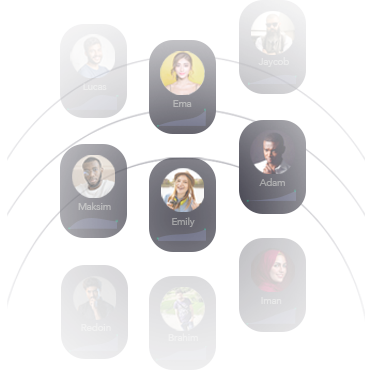
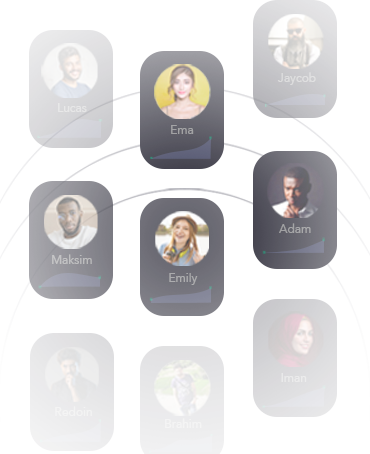
fix login ui

diff --git a/lib/presentation/views/login/login_page.dart b/lib/presentation/views/login/login_page.dart
@@ -54,7 +54,7 @@ class _LoginPageState extends State<LoginPage> {
               }
               if (state is InstagramAuthInitial) {
                 return Column(
-                  mainAxisAlignment: MainAxisAlignment.spaceBetween,
+                  mainAxisAlignment: MainAxisAlignment.spaceEvenly,
                   crossAxisAlignment: CrossAxisAlignment.center,
                   children: [
                     Padding(
@@ -62,7 +62,7 @@ class _LoginPageState extends State<LoginPage> {
                       child: Center(
                         child: Image.asset(
                           "assets/images/LoginITopImg.png",
-                          fit: BoxFit.cover,
+                          fit: BoxFit.fitWidth,
                         ),
                       ),
                     ),
@@ -70,7 +70,7 @@ class _LoginPageState extends State<LoginPage> {
                     const Padding(
                       padding: EdgeInsets.symmetric(horizontal: 20.0),
                       child: Text(
-                        "Instant Analysis of your Instagram Freind",
+                        "Instant Analysis of your Instagram Freinds",
                         style: TextStyle(
                           color: Colors.white,
                           fontSize: 28,
